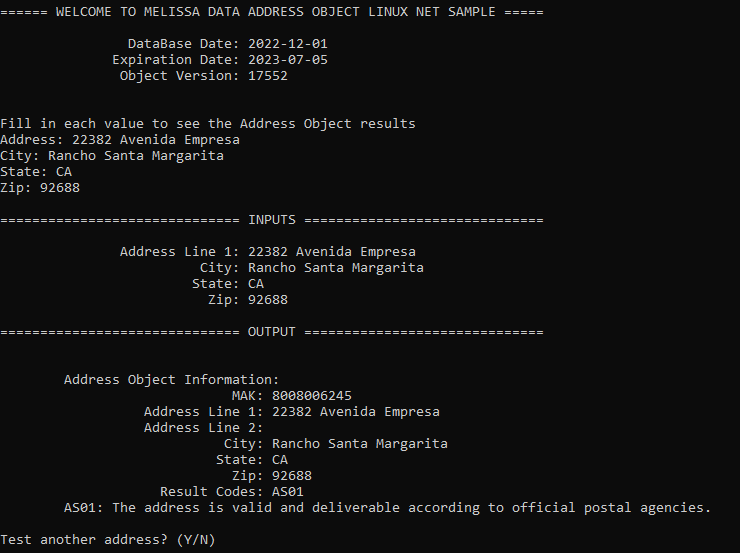
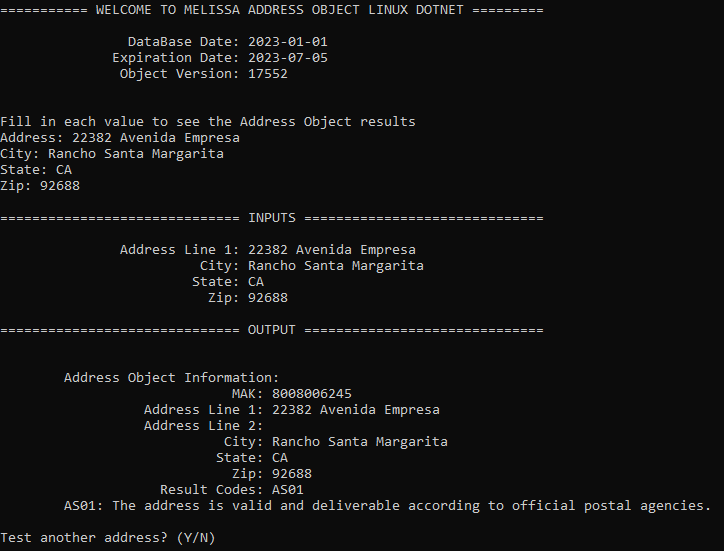
Commit C# Dotnet code for Address Object with release notes

diff --git a/MelissaAddressObjectLinuxDotnet/Program.cs b/MelissaAddressObjectLinuxDotnet/Program.cs
@@ -3,7 +3,7 @@ using System.IO;
 using System.Reflection;
 using MelissaData;
 
-namespace MelissaDataAddressObjectLinuxNETSample
+namespace MelissaAddressObjectLinuxDotnet
 {
   class Program
   {
@@ -66,7 +66,7 @@ namespace MelissaDataAddressObjectLinuxNETSample
 
     static void RunAsConsole(string license, string testAddress, string testCity, string testState, string testZip, string dataPath)
     {
-      Console.WriteLine("\n\n====== WELCOME TO MELISSA DATA ADDRESS OBJECT LINUX NET SAMPLE =====\n");
+      Console.WriteLine("\n\n=========== WELCOME TO MELISSA ADDRESS OBJECT LINUX DOTNET =========\n");
 
       AddressObject addressObject = new AddressObject(license, dataPath);
 
@@ -161,13 +161,13 @@ namespace MelissaDataAddressObjectLinuxNETSample
           }
         }
       }
-      Console.WriteLine("\n========= THANK YOU FOR USING MELISSA DATA NET OBJECT ========\n");
+      Console.WriteLine("\n========= THANK YOU FOR USING MELISSA DOTNET OBJECT ========\n");
     }
   }
 
   class AddressObject
   {
-    // Path to address object data files (.dat, etc)
+    // Path to Address Object data files (.dat, etc)
     string dataFilePath;
 
     // Create instance of Melissa Address Object
@@ -201,7 +201,7 @@ namespace MelissaDataAddressObjectLinuxNETSample
       Console.WriteLine($"              Expiration Date: {mdAddressObj.GetLicenseExpirationDate()}");
 
       /**
-       * This number should match with file properties of the Melissa Data Object binary file.
+       * This number should match with file properties of the Melissa Object binary file.
        * If TEST appears with the build number, there may be a license key issue.
        */
       Console.WriteLine($"               Object Version: {mdAddressObj.GetBuildNumber()}\n");
@@ -220,8 +220,8 @@ namespace MelissaDataAddressObjectLinuxNETSample
       mdAddressObj.VerifyAddress();
       data.ResultCodes = mdAddressObj.GetResults();
 
-      // ResultsCodes explain any issues address object has with the object.
-      // List of result codes for Address object
+      // ResultsCodes explain any issues Address Object has with the object.
+      // List of result codes for Address Object
       // https://wiki.melissadata.com/?title=Result_Code_Details#Address_Object
     }
   }

diff --git a/README.md b/README.md
@@ -1,8 +1,12 @@
-# Melissa Data Address Object Linux Net Sample
+# Melissa - Address Object Linux Dotnet
 
 ## Purpose
 
-This is a sample of the Melissa Data Address Object using C#
+This code showcases the Melissa Address Object using C#.
+
+Please feel free to copy or embed this code to your own project. Happy coding!
+
+For the latest Melissa Address Object release notes, please visit: https://releasenotes.melissa.com/on-premise-api/address-object/
 
 The console will ask the user for:
 
@@ -32,7 +36,7 @@ And return
 
 #### libmdAddr.so
 
-This is the c++ code of the Melissa Data Object
+This is the c++ code of the Melissa Object.
 
 #### Data Files
 - Addr.dbf
@@ -130,25 +134,25 @@ Melissa Updater is a CLI application allowing the user to update their Melissa a
 	- It will handle all of the data download/path and .so file(s) for you. 
 2.  If you already have the latest DQS Release (ZIP), you can find the data file(s) and .so file(s) in there
 	- Use the location of where you copied/installed the data and update the "DataPath" variable in the bash script.
-	- Copy all the .so file(s) mentioned above into the `MelissaDataAddressObjectLinuxNETSample` project folder.
+	- Copy all the .so file(s) mentioned above into the `MelissaAddressObjectLinuxDotnet` project folder.
 	
 ----------------------------------------
 
 #### Configure Target Framework
-Depending on your target .NET framework, you may need to configure the bash script. In order to do this, open up the `MelissaDataAddressObjectLinuxNETSample.sh` for editing, proceed to the bottom of the script where you will find this section of code.
+Depending on your target .NET framework, you may need to configure the bash script. In order to do this, open up the `MelissaAddressObjectLinuxDotnet.sh` for editing, proceed to the bottom of the script where you will find this section of code.
 
 Default set for .NET 7.0
 ```
-dotnet publish -f="net7.0" -c Release -o $BuildPath MelissaDataAddressObjectLinuxNETSample/MelissaDataAddressObjectLinuxNETSample.csproj
-#dotnet publish -f="net5.0" -c Release -o $BuildPath MelissaDataAddressObjectLinuxNETSample/MelissaDataAddressObjectLinuxNETSample.csproj
-#dotnet publish -f="netcoreapp3.1" -c Release -o $BuildPath MelissaDataAddressObjectLinuxNETSample/MelissaDataAddressObjectLinuxNETSample.csproj
+dotnet publish -f="net7.0" -c Release -o $BuildPath MelissaAddressObjectLinuxDotnet/MelissaAddressObjectLinuxDotnet.csproj
+#dotnet publish -f="net5.0" -c Release -o $BuildPath MelissaAddressObjectLinuxDotnet/MelissaAddressObjectLinuxDotnet.csproj
+#dotnet publish -f="netcoreapp3.1" -c Release -o $BuildPath MelissaAddressObjectLinuxDotnet/MelissaAddressObjectLinuxDotnet.csproj
 ```
 The target framework is specified with the -f flag found in the command line. If you wish to use any version besides .NET 7.0, please uncomment the line containing that framework and comment out the line containing the .NET 7.0 framework (# to comment).
 
 #### Change Bash Script Permissions
 To be able to run the bash script, you must first make it an executable using the command:
 
-`chmod +x MelissaDataAddressObjectLinuxNETSample.sh`
+`chmod +x MelissaAddressObjectLinuxDotnet.sh`
 
 As an indicator, the filename will change colors once it becomes an executable.
 
@@ -161,7 +165,7 @@ Parameters:
 
     These are convenient when you want to get results for a specific address in one run instead of testing multiple addresses in interactive mode.
 
-- -l or --license (optional): a license string to test the address object 
+- -l or --license (optional): a license string to test the Address Object 
 - -q or --quiet (optional): add to command if you do not want to get any console output from the Melissa Updater
 
 When you have modified the script to match your data location, let's run the script. There are two modes:
@@ -169,11 +173,11 @@ When you have modified the script to match your data location, let's run the scr
     
     The script will prompt the user for an address, city, state, and zip, then use the provided inputs to test Address Object. For example:
     ```
-    $ ./MelissaDataAddressObjectLinuxNETSample.sh
+    $ ./MelissaAddressObjectLinuxDotnet.sh
     ```
     For quiet mode:
     ```
-    $ ./MelissaDataAddressObjectLinuxNETSample.sh --quiet
+    $ ./MelissaAddressObjectLinuxDotnet.sh --quiet
     ```
 
 - Command Line
@@ -182,20 +186,20 @@ When you have modified the script to match your data location, let's run the scr
 
     With all parameters:
     ```
-    $ ./MelissaDataAddressObjectLinuxNETSample.sh --address "22382 Avenida Empresa" --city "Rancho Santa Margarita" --state "CA" --zip "92688"
-    $ ./MelissaDataAddressObjectLinuxNETSample.sh --address "22382 Avenida Empresa" --city "Rancho Santa Margarita" --state "CA" --zip "92688" --license "<your_license_string>"
+    $ ./MelissaAddressObjectLinuxDotnet.sh --address "22382 Avenida Empresa" --city "Rancho Santa Margarita" --state "CA" --zip "92688"
+    $ ./MelissaAddressObjectLinuxDotnet.sh --address "22382 Avenida Empresa" --city "Rancho Santa Margarita" --state "CA" --zip "92688" --license "<your_license_string>"
     ```
 
     With any known (optional) parameters:
     ```
-    $ ./MelissaDataAddressObjectLinuxNETSample.sh --address "22382 Avenida Empresa" --state "CA" 
-    $ ./MelissaDataAddressObjectLinuxNETSample.sh --address "22382 Avenida Empresa" --state "CA" --license "<your_license_string>"
+    $ ./MelissaAddressObjectLinuxDotnet.sh --address "22382 Avenida Empresa" --state "CA" 
+    $ ./MelissaAddressObjectLinuxDotnet.sh --address "22382 Avenida Empresa" --state "CA" --license "<your_license_string>"
     ```
 
     For quiet mode:
     ```
-    $ ./MelissaDataAddressObjectLinuxNETSample.sh --address "22382 Avenida Empresa" --city "Rancho Santa Margarita" --state "CA" --zip "92688" --quiet
-    $ ./MelissaDataAddressObjectLinuxNETSample.sh --address "22382 Avenida Empresa" --city "Rancho Santa Margarita" --state "CA" --zip "92688" --license "<your_license_string>" --quiet
+    $ ./MelissaAddressObjectLinuxDotnet.sh --address "22382 Avenida Empresa" --city "Rancho Santa Margarita" --state "CA" --zip "92688" --quiet
+    $ ./MelissaAddressObjectLinuxDotnet.sh --address "22382 Avenida Empresa" --city "Rancho Santa Margarita" --state "CA" --zip "92688" --license "<your_license_string>" --quiet
     ```
 This is the expected outcome of a successful setup for interactive mode:
 
@@ -204,7 +208,7 @@ This is the expected outcome of a successful setup for interactive mode:
 
 ## Troubleshooting
 
-Troubleshooting for errors found while running your sample program.
+Troubleshooting for errors found while running your program.
 
 ### C# Errors:
 
@@ -218,8 +222,6 @@ Troubleshooting for errors found while running your sample program.
 
 ## Contact Us
 
-For free technical support, please call us at 800-MELISSA ext. 4
-(800-635-4772 ext. 4) or email us at tech@MelissaData.com.
+For free technical support, please call us at 800-MELISSA ext. 4 (800-635-4772 ext. 4) or email us at tech@melissa.com.
 
-To purchase this product, contact Melissa data sales department at
-800-MELISSA ext. 3 (800-635-4772 ext. 3).
+To purchase this product, contact the Melissa sales department at 800-MELISSA ext. 3 (800-635-4772 ext. 3).

diff --git a/LICENSE.md b/LICENSE.md
@@ -1,0 +1,21 @@
+MIT License
+
+Copyright (c) Melissa Data Corporation
+
+Permission is hereby granted, free of charge, to any person obtaining a copy
+of this software and associated documentation files (the "Software"), to deal
+in the Software without restriction, including without limitation the rights
+to use, copy, modify, merge, publish, distribute, sublicense, and/or sell
+copies of the Software, and to permit persons to whom the Software is
+furnished to do so, subject to the following conditions:
+
+The above copyright notice and this permission notice shall be included in all
+copies or substantial portions of the Software.
+
+THE SOFTWARE IS PROVIDED "AS IS", WITHOUT WARRANTY OF ANY KIND, EXPRESS OR
+IMPLIED, INCLUDING BUT NOT LIMITED TO THE WARRANTIES OF MERCHANTABILITY,
+FITNESS FOR A PARTICULAR PURPOSE AND NONINFRINGEMENT. IN NO EVENT SHALL THE
+AUTHORS OR COPYRIGHT HOLDERS BE LIABLE FOR ANY CLAIM, DAMAGES OR OTHER
+LIABILITY, WHETHER IN AN ACTION OF CONTRACT, TORT OR OTHERWISE, ARISING FROM,
+OUT OF OR IN CONNECTION WITH THE SOFTWARE OR THE USE OR OTHER DEALINGS IN THE
+SOFTWARE.
